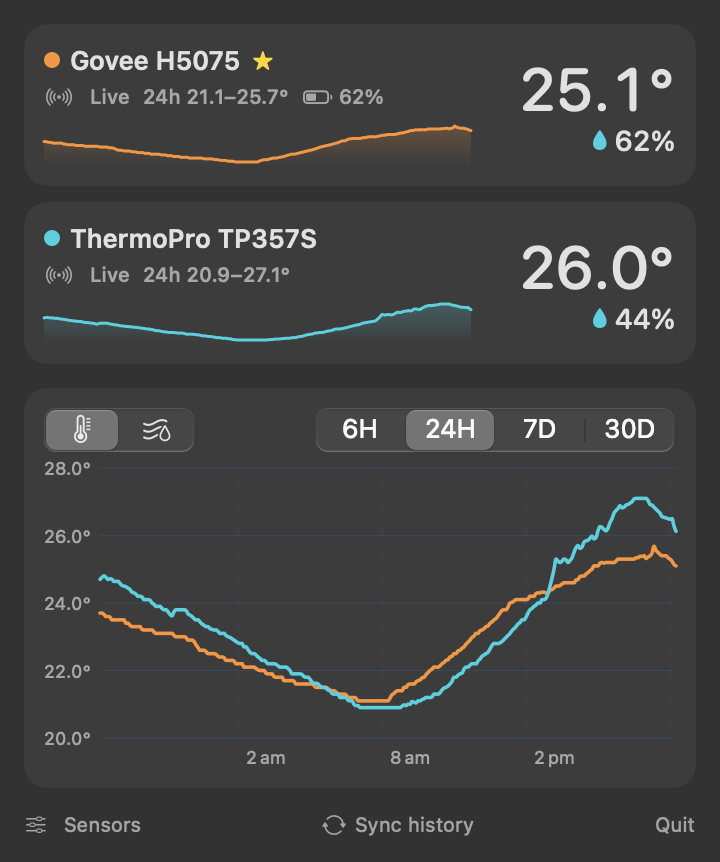
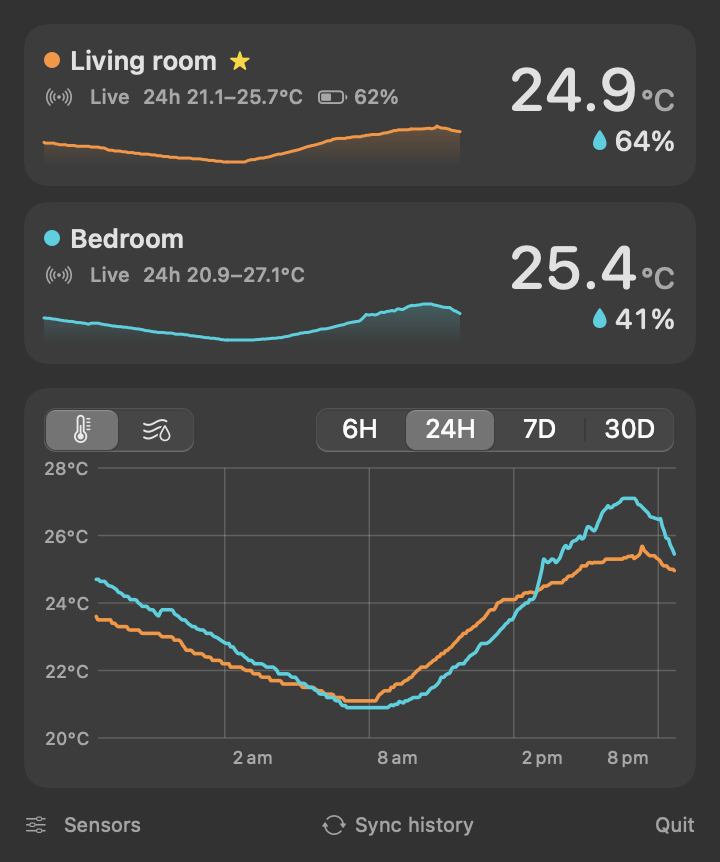
feat: per-sensor colors, °C units, clearer chart grid, unclipped time axis (0.1.1)

diff --git a/Sources/SensorTray/HistoryChart.swift b/Sources/SensorTray/HistoryChart.swift
@@ -9,7 +9,15 @@ enum ChartMetric: String, CaseIterable, Identifiable {
     var symbol: String { self == .temperature ? "thermometer.medium" : "humidity" }
     var title: String { self == .temperature ? "Temperature" : "Humidity" }
     func value(_ p: HistoryPoint) -> Double { self == .temperature ? p.tempC : p.humidity }
-    func format(_ v: Double) -> String { self == .temperature ? String(format: "%.1f°", v) : String(format: "%.0f%%", v) }
+    func format(_ v: Double) -> String { self == .temperature ? String(format: "%.1f°C", v) : String(format: "%.0f%%", v) }
+    /// Axis ticks: drop the decimal when the tick is whole (24°C, not 24.0°C).
+    func axisFormat(_ v: Double) -> String {
+        let whole = v.rounded() == v
+        switch self {
+        case .temperature: return String(format: whole ? "%.0f°C" : "%.1f°C", v)
+        case .humidity: return String(format: whole ? "%.0f%%" : "%.1f%%", v)
+        }
+    }
 }
 
 /// All sensors on one chart for the chosen metric and range, with a hover
@@ -68,18 +76,25 @@ struct HistoryChart: View {
             .chartYScale(domain: .automatic(includesZero: false))
             .chartYAxis {
                 AxisMarks(position: .leading, values: .automatic(desiredCount: 4)) { value in
-                    AxisGridLine().foregroundStyle(.quaternary)
+                    AxisGridLine(stroke: Self.gridStroke).foregroundStyle(Self.gridColor)
                     AxisValueLabel {
-                        if let v = value.as(Double.self) { Text(metric.format(v)).font(.system(size: 9)) }
+                        if let v = value.as(Double.self) { Text(metric.axisFormat(v)).font(.system(size: 9)) }
                     }
                 }
             }
             .chartXAxis {
-                AxisMarks(values: .automatic(desiredCount: 4)) { _ in
-                    AxisGridLine().foregroundStyle(.quaternary)
-                    AxisValueLabel(format: xFormat).font(.system(size: 9))
+                AxisMarks(values: .automatic(desiredCount: 4)) { value in
+                    AxisGridLine(stroke: Self.gridStroke).foregroundStyle(Self.gridColor)
+                    // A label centered on a tick near the right edge gets
+                    // clipped; hang those to the left of their tick instead.
+                    if let date = value.as(Date.self), domain.upperBound.timeIntervalSince(date) < Double(range.minutes) * 60 * 0.08 {
+                        AxisValueLabel(format: xFormat, anchor: .topTrailing).font(.system(size: 9))
+                    } else {
+                        AxisValueLabel(format: xFormat).font(.system(size: 9))
+                    }
                 }
             }
+            .chartXScale(domain: domain)
             .chartOverlay { proxy in
                 GeometryReader { geo in
                     Rectangle().fill(.clear).contentShape(Rectangle())
@@ -97,6 +112,15 @@ struct HistoryChart: View {
             }
         }
     }
+
+    /// The whole selected range, so the axis doesn't shrink to the data.
+    private var domain: ClosedRange<Date> {
+        let now = Date()
+        return now.addingTimeInterval(-Double(range.minutes) * 60)...now
+    }
+
+    private static let gridStroke = StrokeStyle(lineWidth: 0.7)
+    private static let gridColor = Color.primary.opacity(0.22)
 
     private var xFormat: Date.FormatStyle {
         switch range {

diff --git a/Sources/SensorTray/SensorsView.swift b/Sources/SensorTray/SensorsView.swift
@@ -91,7 +91,7 @@ private struct ConfiguredRow: View {
 
     var body: some View {
         HStack(spacing: 10) {
-            Circle().fill(model.color(for: sensor)).frame(width: 10, height: 10)
+            ColorDot(sensor: sensor)
 
             VStack(alignment: .leading, spacing: 2) {
                 TextField("Name", text: $name.value)
@@ -176,6 +176,72 @@ private struct NearbyRow: View {
         }
         return parts.joined(separator: " · ")
     }
+}
+
+/// The sensor's color; click to pick another (palette swatches or any
+/// color via the system picker). Used for its card, sparkline and chart line.
+private struct ColorDot: View {
+    @EnvironmentObject private var model: AppModel
+    let sensor: SensorConfig
+    @StateObject private var showPicker = ViewState(false)
+
+    var body: some View {
+        let current = model.color(for: sensor)
+        Button {
+            showPicker.value = true
+        } label: {
+            Circle()
+                .fill(current)
+                .frame(width: 14, height: 14)
+                .overlay(Circle().strokeBorder(.primary.opacity(0.2)))
+                .contentShape(Circle())
+        }
+        .buttonStyle(.plain)
+        .help("Change color")
+        .popover(isPresented: $showPicker.value, arrowEdge: .bottom) {
+            VStack(alignment: .leading, spacing: 10) {
+                Text("Color").font(.headline)
+                LazyVGrid(columns: Array(repeating: GridItem(.fixed(22), spacing: 8), count: 6), spacing: 8) {
+                    ForEach(Array(ColorDot.swatches.enumerated()), id: \.offset) { _, swatch in
+                        Button {
+                            model.setColor(sensor.id, to: swatch)
+                            showPicker.value = false
+                        } label: {
+                            Circle()
+                                .fill(swatch)
+                                .frame(width: 22, height: 22)
+                                .overlay {
+                                    if swatch.hexString == current.hexString {
+                                        Image(systemName: "checkmark")
+                                            .font(.system(size: 10, weight: .bold))
+                                            .foregroundStyle(.white)
+                                    }
+                                }
+                        }
+                        .buttonStyle(.plain)
+                    }
+                }
+                Divider()
+                HStack {
+                    ColorPicker("Custom…", selection: Binding(
+                        get: { current },
+                        set: { model.setColor(sensor.id, to: $0) }
+                    ), supportsOpacity: false)
+                    Spacer()
+                    Button("Reset") {
+                        model.setColor(sensor.id, to: nil)
+                        showPicker.value = false
+                    }
+                    .disabled(sensor.colorHex == nil)
+                }
+                .font(.callout)
+            }
+            .padding(14)
+            .frame(width: 220)
+        }
+    }
+
+    static let swatches: [Color] = AppModel.palette + [.red, .blue, .brown, .cyan]
 }
 
 /// Four bars from RSSI so you can tell which sensor is the one next to you.

diff --git a/Sources/SensorTrayCore/Store.swift b/Sources/SensorTrayCore/Store.swift
@@ -31,6 +31,7 @@ public final class Store {
                 is_main INTEGER NOT NULL DEFAULT 0,
                 sort INTEGER NOT NULL DEFAULT 0,
                 synced_through INTEGER,
+                color TEXT,
                 added_at INTEGER NOT NULL
             );
             CREATE TABLE IF NOT EXISTS readings(
@@ -42,6 +43,8 @@ public final class Store {
                 PRIMARY KEY(sensor_id, minute)
             ) WITHOUT ROWID;
             """)
+        // 0.1.0 databases predate the color column; ignore "duplicate column".
+        try? exec("ALTER TABLE sensors ADD COLUMN color TEXT")
     }
 
     /// `~/Library/Application Support/SensorTray/sensortray.sqlite`
@@ -55,11 +58,12 @@ public final class Store {
     // MARK: Sensors
 
     public func sensors() -> [SensorConfig] {
-        query("SELECT id, name, model, is_main, sort FROM sensors ORDER BY sort, added_at") { s in
+        query("SELECT id, name, model, is_main, sort, color FROM sensors ORDER BY sort, added_at") { s in
             guard let id = UUID(uuidString: text(s, 0)),
                   let model = SensorModel(rawValue: text(s, 2)) else { return nil }
             return SensorConfig(id: id, name: text(s, 1), model: model,
-                                isMain: sqlite3_column_int(s, 3) != 0, sort: Int(sqlite3_column_int(s, 4)))
+                                isMain: sqlite3_column_int(s, 3) != 0, sort: Int(sqlite3_column_int(s, 4)),
+                                colorHex: sqlite3_column_type(s, 5) == SQLITE_NULL ? nil : text(s, 5))
         }
     }
 
@@ -70,6 +74,10 @@ public final class Store {
             ON CONFLICT(id) DO UPDATE SET name=excluded.name, model=excluded.model,
                 is_main=excluded.is_main, sort=excluded.sort
             """, [sensor.id.uuidString, sensor.name, sensor.model.rawValue, sensor.isMain ? 1 : 0, sensor.sort, Int(Date().timeIntervalSince1970)])
+    }
+
+    public func setColor(id: UUID, hex: String?) {
+        run("UPDATE sensors SET color = ? WHERE id = ?", [hex as Any, id.uuidString])
     }
 
     public func setMain(id: UUID) {

diff --git a/Sources/SensorTray/SensorCard.swift b/Sources/SensorTray/SensorCard.swift
@@ -29,7 +29,7 @@ struct SensorCard: View {
                 HStack(spacing: 6) {
                     status(live)
                     if let low = points.map(\.tempC).min(), let high = points.map(\.tempC).max() {
-                        Text(String(format: "24h %.1f–%.1f°", low, high))
+                        Text(String(format: "24h %.1f–%.1f°C", low, high))
                             .help("Lowest and highest temperature in the last 24 hours")
                     }
                     if let battery = live?.reading.battery {
@@ -47,8 +47,13 @@ struct SensorCard: View {
             Spacer(minLength: 0)
 
             VStack(alignment: .trailing, spacing: 0) {
-                Text(live.map { String(format: "%.1f°", $0.reading.tempC) } ?? "--")
-                    .font(.system(size: 30, weight: .medium, design: .rounded).monospacedDigit())
+                HStack(alignment: .firstTextBaseline, spacing: 1) {
+                    Text(live.map { String(format: "%.1f", $0.reading.tempC) } ?? "--")
+                        .font(.system(size: 30, weight: .medium, design: .rounded).monospacedDigit())
+                    Text("°C")
+                        .font(.system(size: 15, weight: .medium, design: .rounded))
+                        .foregroundStyle(.secondary)
+                }
                 HStack(spacing: 3) {
                     Image(systemName: "drop.fill")
                         .font(.system(size: 10))

diff --git a/Sources/SensorTray/main.swift b/Sources/SensorTray/main.swift
@@ -121,9 +121,18 @@ enum CLI {
         // Let a few advertisements arrive so the cards show live values.
         RunLoop.main.run(until: Date().addingTimeInterval(12))
 
+        // Fixed chart settings in a throwaway defaults suite, so the image is
+        // reproducible and the app's own preferences aren't touched.
+        let suite = "com.nuwan.sensor-tray.snapshot"
+        let defaults = UserDefaults(suiteName: suite)!
+        defaults.set(ChartRange.day.rawValue, forKey: "chartRange")
+        defaults.set(ChartMetric.temperature.rawValue, forKey: "chartMetric")
+        defer { defaults.removePersistentDomain(forName: suite) }
+
         let root = Group {
             if arguments.contains("sensors") { SensorsView() } else { PopoverView() }
         }
+            .defaultAppStorage(defaults)
             .environmentObject(model)
             .background(Color(nsColor: .windowBackgroundColor))
             .environment(\.colorScheme, dark ? .dark : .light)

diff --git a/Sources/SensorTray/AppModel.swift b/Sources/SensorTray/AppModel.swift
@@ -107,6 +107,7 @@ final class AppModel: ObservableObject {
     var mainSensor: SensorConfig? { sensors.first(where: \.isMain) ?? sensors.first }
 
     func color(for sensor: SensorConfig) -> Color {
+        if let hex = sensor.colorHex, let picked = Color(hex: hex) { return picked }
         let index = sensors.firstIndex(where: { $0.id == sensor.id }) ?? 0
         return Self.palette[index % Self.palette.count]
     }
@@ -170,6 +171,12 @@ final class AppModel: ObservableObject {
         guard var sensor = sensors.first(where: { $0.id == id }), !trimmed.isEmpty, trimmed != sensor.name else { return }
         sensor.name = trimmed
         store.save(sensor)
+        reloadSensors()
+    }
+
+    /// nil goes back to the default palette color.
+    func setColor(_ id: UUID, to color: Color?) {
+        store.setColor(id: id, hex: color?.hexString)
         reloadSensors()
     }
 

diff --git a/Sources/SensorTray/ColorHex.swift b/Sources/SensorTray/ColorHex.swift
@@ -1,0 +1,22 @@
+import AppKit
+import SwiftUI
+
+extension Color {
+    /// `#RRGGBB` → Color; nil for anything else.
+    init?(hex: String) {
+        let digits = hex.hasPrefix("#") ? String(hex.dropFirst()) : hex
+        guard digits.count == 6, let value = UInt32(digits, radix: 16) else { return nil }
+        self.init(red: Double((value >> 16) & 0xFF) / 255,
+                  green: Double((value >> 8) & 0xFF) / 255,
+                  blue: Double(value & 0xFF) / 255)
+    }
+
+    /// Color → `#RRGGBB` (sRGB), as stored per sensor.
+    var hexString: String {
+        let c = NSColor(self).usingColorSpace(.sRGB) ?? .gray
+        return String(format: "#%02X%02X%02X",
+                      Int((c.redComponent * 255).rounded()),
+                      Int((c.greenComponent * 255).rounded()),
+                      Int((c.blueComponent * 255).rounded()))
+    }
+}

diff --git a/Sources/SensorTrayChecks/main.swift b/Sources/SensorTrayChecks/main.swift
@@ -161,6 +161,15 @@ do {
     renamed.name = "Lounge"
     store.save(renamed)
     check(store.sensors()[0].name == "Lounge", "store rename")
+    check(store.sensors()[0].colorHex == nil, "store default color")
+    store.setColor(id: a, hex: "#FF8800")
+    check(store.sensors()[0].colorHex == "#FF8800", "store color set")
+    var recolored = store.sensors()[0]
+    recolored.name = "Lounge 2"
+    store.save(recolored)
+    check(store.sensors()[0].colorHex == "#FF8800", "store save keeps color")
+    store.setColor(id: a, hex: nil)
+    check(store.sensors()[0].colorHex == nil, "store color reset")
 
     store.insertBackfill(a, points: [HistoryPoint(minute: 100, tempC: 20, humidity: 40)])
     store.insertLive(a, minute: 100, reading: Reading(tempC: 21, humidity: 41, battery: nil))

diff --git a/Sources/SensorTrayCore/Models.swift b/Sources/SensorTrayCore/Models.swift
@@ -99,13 +99,16 @@ public struct SensorConfig: Identifiable, Equatable, Sendable {
     public var model: SensorModel
     public var isMain: Bool
     public var sort: Int
+    /// User-picked color as `#RRGGBB`; nil uses the default palette.
+    public var colorHex: String?
 
-    public init(id: UUID, name: String, model: SensorModel, isMain: Bool, sort: Int) {
+    public init(id: UUID, name: String, model: SensorModel, isMain: Bool, sort: Int, colorHex: String? = nil) {
         self.id = id
         self.name = name
         self.model = model
         self.isMain = isMain
         self.sort = sort
+        self.colorHex = colorHex
     }
 }
 

diff --git a/README.md b/README.md
@@ -3,8 +3,7 @@
 A native macOS menu bar app for Bluetooth thermo-hygrometers. It shows the temperature and humidity of your main sensor in the menu bar, and a click opens every sensor with a chart of its history. It replaces juggling the Govee and ThermoPro phone apps.
 
 <p align="center">
-  <img src="docs/screenshot.png" alt="Sensor Tray popover showing two sensor cards with live temperature, humidity and 24-hour sparklines, above a combined temperature chart" width="360">
-  <img src="docs/screenshot-dark.png" alt="The same popover in dark mode" width="360">
+  <img src="docs/screenshot-dark.png" alt="Sensor Tray popover showing two sensor cards with live temperature, humidity and 24-hour sparklines, above a combined temperature chart" width="360">
 </p>
 
 ## Supported sensors
@@ -22,7 +21,7 @@ You can add as many sensors of these models as you like and name them.
 - **Menu bar**: the main (★) sensor's `25.1°  62%`, dimmed when the reading is more than 10 minutes old.
 - **Popover**: a card per sensor (temperature, humidity, battery, 24 h min–max and a sparkline) and a combined chart with 6H / 24H / 7D / 30D ranges, a temperature/humidity toggle and a hover read-out. Gaps (Mac asleep, sensor out of range) show as breaks in the line, not misleading straight bridges.
 - **History backfill**: on launch, on wake, every 6 hours and on demand, the app connects briefly to each sensor and downloads only the stretch of its onboard memory that's missing locally, then disconnects so the phone apps keep working. If a sensor doesn't connect (weak signal), it retries 10 minutes later.
-- **Sensors window**: add nearby sensors (with signal bars, so you can tell which is which), rename, reorder, choose the menu bar sensor, export history as CSV, and remove. It also has a launch-at-login toggle.
+- **Sensors window**: add nearby sensors (with signal bars, so you can tell which is which), rename, pick each sensor's color (click its dot), reorder, choose the menu bar sensor, export history as CSV, and remove. It also has a launch-at-login toggle.
 - Live data is read passively from Bluetooth advertisements, so no pairing is needed. Everything stays on this Mac in `~/Library/Application Support/SensorTray/sensortray.sqlite`.
 
 <p align="center">
@@ -53,7 +52,7 @@ The same binary doubles as a test tool:
 .build/release/SensorTray --scan [seconds]            # list nearby sensors with live readings + advert counts
 .build/release/SensorTray --history <uuid> [minutes]  # download a sensor's onboard history
 .build/release/SensorTray --dump                      # configured sensors and stored data
-.build/release/SensorTray --snapshot docs/screenshot.png [light|dark] [sensors]   # render the UI to PNG
+.build/release/SensorTray --snapshot docs/screenshot-dark.png dark [sensors]   # render the UI to PNG
 SENSORTRAY_DEBUG=1 .build/release/SensorTray --scan   # print raw advertisement bytes
 swift run SensorTrayChecks                            # protocol / storage checks
 ```

diff --git a/CHANGELOG.md b/CHANGELOG.md
@@ -1,5 +1,13 @@
 # Changelog
 
+## 0.1.1 — 2026-10-17
+
+- Pick a color per sensor: click its dot in the Sensors window for palette swatches, a custom color, or Reset. The color is used for the card, sparkline and chart line.
+- Temperatures show their unit everywhere in the popover: `25.0°C` on the cards, `24h 21.1–25.7°C`, the chart's axis (`24°C`) and its hover read-out.
+- Chart grid lines are more visible.
+- The last time label on the chart's x axis is no longer clipped. The axis now always spans the whole selected range.
+- README shows the dark-mode screenshot only.
+
 ## 0.1.0 — 2026-10-17
 
 - First release: menu bar thermo-hygrometer for Govee H5075/H5072 and ThermoPro TP357/TP357S.
